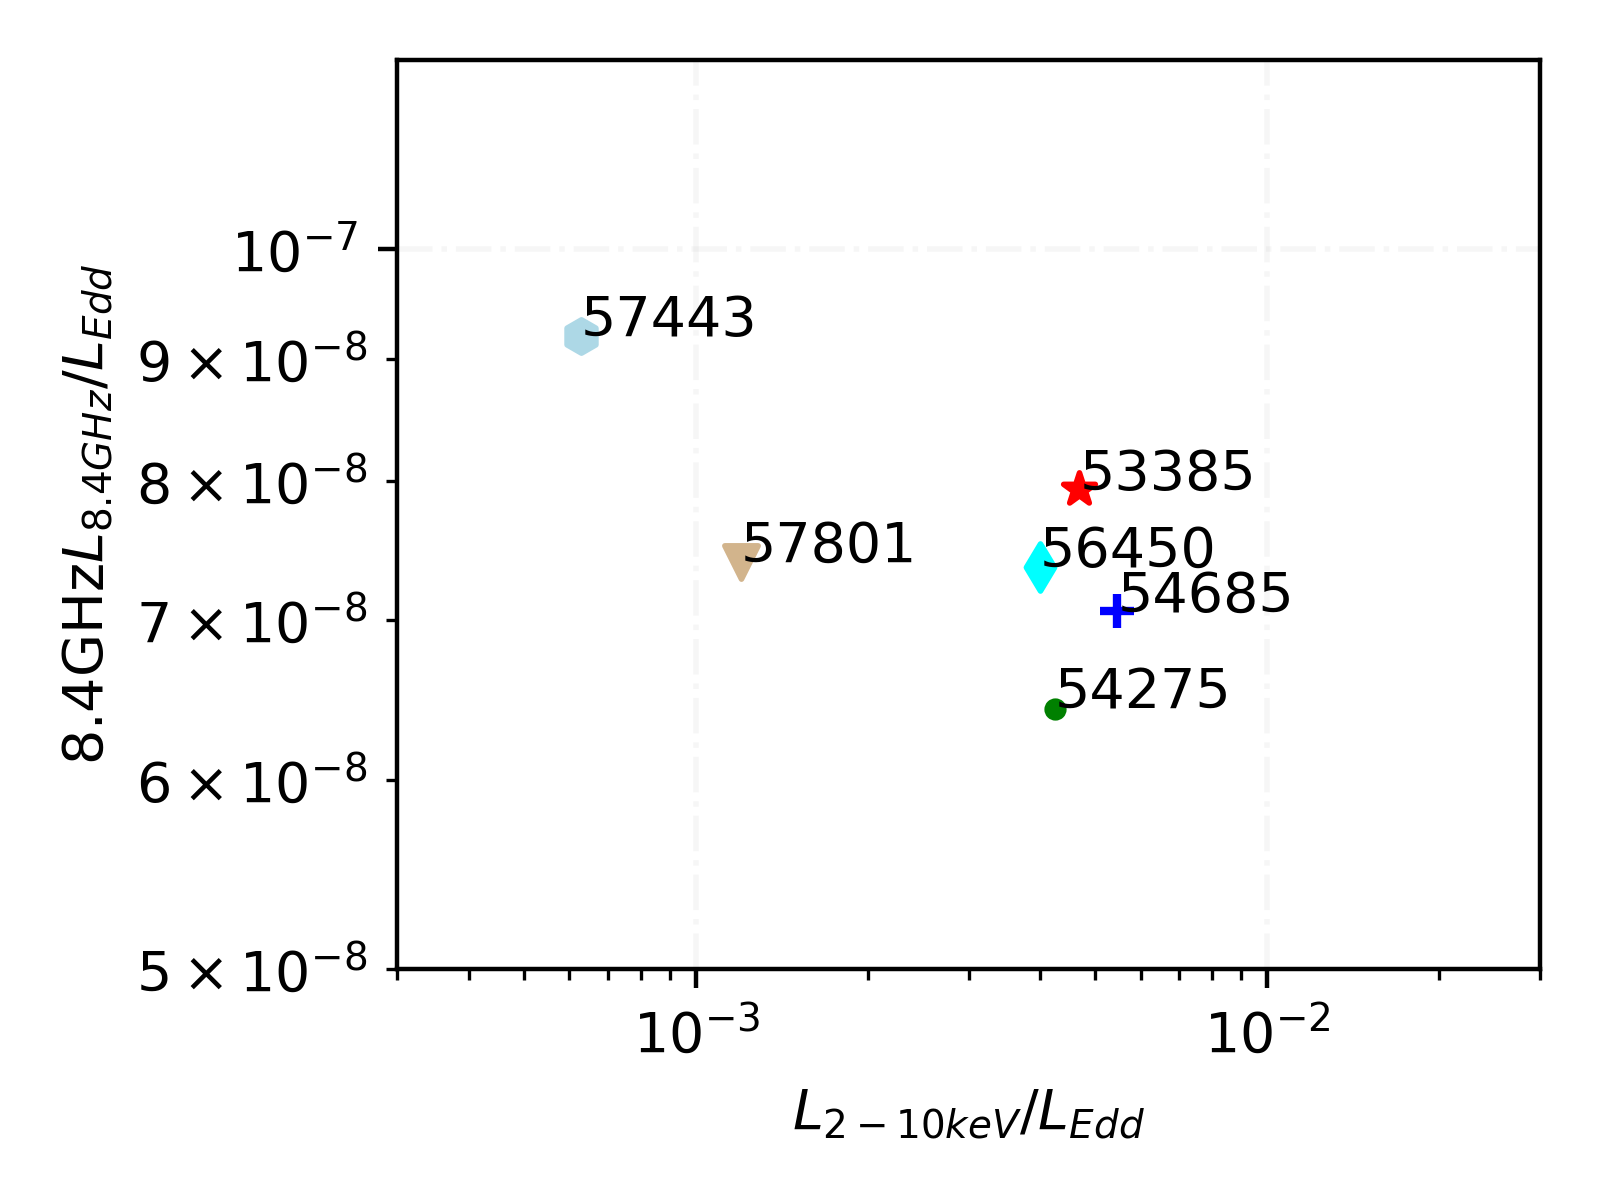
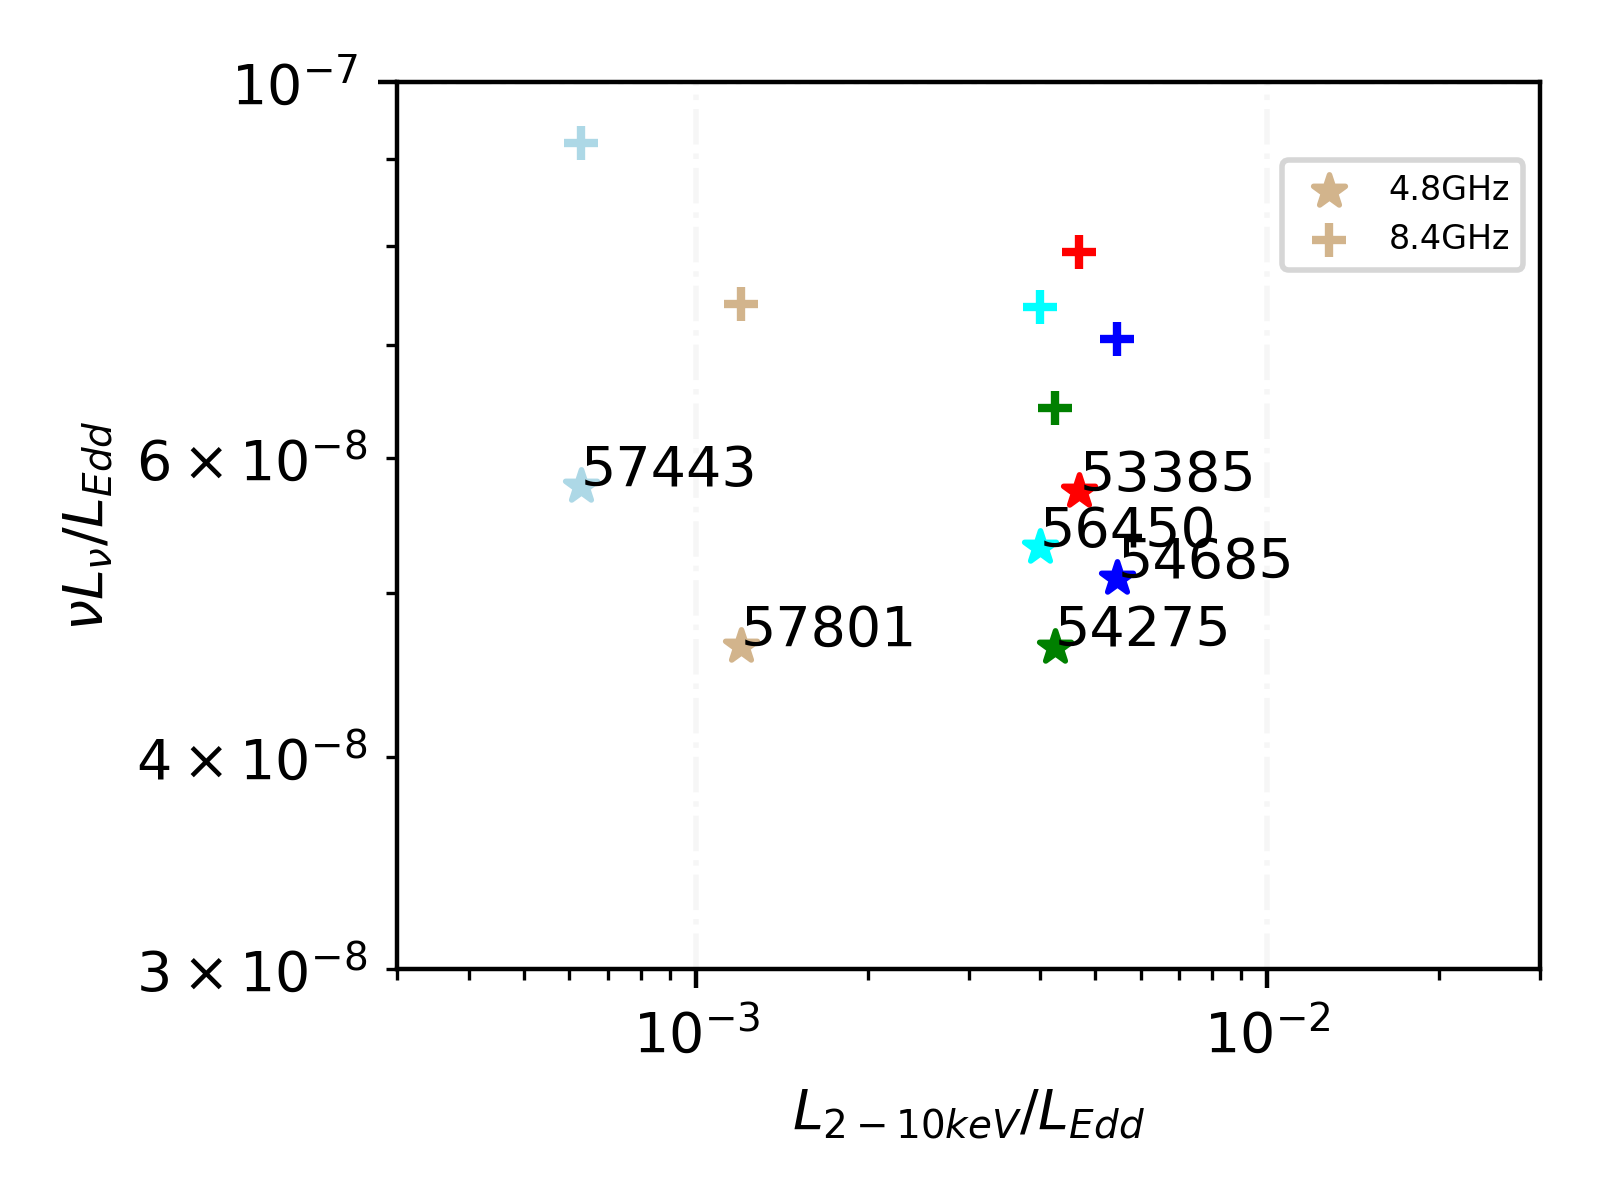
Updates from Overleaf

diff --git a/main.tex b/main.tex
@@ -336,13 +336,13 @@ This paper is structured as follows: In Sect. \ref{sec:data}, we describe the ob
 
 \section{Data Analysis}\label{sec:data}
 \subsection{X-ray}
-We analysed archival \swift, \xmm, \chandra~and \nustar~data in 2005 $\sim$ 2018. All 2-10~keV fluxes are corrected for Galactic absorption with cflux model in Xspec v12.10.1f \citep{1996ASPC..101...17A}, where its absorption by Galactic neutral hydrogen, nH, was fixed at 0.0243 $\times 10^{22} cm^{-2}$\citep[see ][]{2016A&A...593L...9H}. The 2-10~keV flux variability reach a factor around 8-10 between 2009 and 2016, which could be caused by the dimming of the central engine. The severe variability in short timescale provides a good target for intrinsic activity of individual Super-massive Black Holes(SMBH). All best fit parameters include photon index($\Gamma$, hereafter for short), flux in 2-10~keV($F_{2-10~keV}$) after the Galactic absorption correction, etc. are listed in Table.~\ref{tab:table1}.
+We analysed archival \swift, \xmm, \chandra~and \nustar~data in 2005 $\sim$ 2018. All 2-10~keV fluxes are corrected for Galactic absorption with cflux model in Xspec v12.10.1f \citep{1996ASPC..101...17A}, where its absorption by Galactic neutral hydrogen, nH, was fixed at 0.0243 $\times 10^{22} cm^{-2}$\citep[see ][]{2016A&A...593L...9H}. All best fit parameters include photon index($\Gamma$, hereafter for short), flux in 2-10~keV($F_{2-10~keV}$) after the Galactic absorption correction, etc, are listed in Table.~\ref{tab:table1}.
 
 
 %\textit{XMM-Newton}
 
 \subsubsection{\swift/XRT}
-The X-Ray Telescope (XRT) on board the Swift satellite has the most frequent long term X-ray observation of Mrk~1018, a rapidly variable Changing-look AGN. We reanalysis the archive data with analysis xrtpipeline\footnote{\url{http://swift.asdc.asi.it}} and fit the spectrum of Mrk~1018 in 0.5-10~keV range based on a simple absorbed power-law model for all data.  The source region is a 47-arcsec-radius circle at the center of AGN as suggested in \citet{2009MNRAS.397.1177E}. When counts of photons is less than 100, we use C-stat method to fit the model without grouping counts bins. Otherwise, the spectrum was grouped by minimum of 20 counts per bin. 
+The X-Ray Telescope (XRT) on board the Swift satellite has the most frequent long term X-ray observation of Mrk~1018. We reanalysis the archive data with analysis xrtpipeline\footnote{\url{http://swift.asdc.asi.it}} and fit the spectrum of Mrk~1018 in 0.5-10~keV range based on a simple absorbed power-law model for all data.  The source region is a 47-arcsec-radius circle at the center of AGN as suggested in \citet{2009MNRAS.397.1177E}. When counts of photons is less than 100, we use C-stat method to fit the model without grouping counts bins. Otherwise, the spectrum was grouped by minimum of 20 counts per bin. 
 
 
 \subsubsection{\chandra}
@@ -357,7 +357,9 @@ Only 2 observation data in 2005 and 2008 with XMM-Newton have been released, and
 
 \subsection{Optical/ultraviolet}
 \subsubsection{\swift/UVOT}
-There are six filters in optical/ultraviolet band of \swift/UVOT: V,B,U,UVW1,UVM2 and UVW2. We use the tool \textit{uvotsource} to do the aperture photometry for all the observations of each filter. The source aperture radius is 5$\arcsec$ and the background is chosen in a blank region with much larger aperture radius. The results of the V and B filters are discarded, because the emission from the host galaxy is dominated in these two bands even in the bright phase \citep{2018MNRAS.480.3898N}. We discard the results of all filters after 2016, since the emission from the nucleus is comparable or less than the host galaxy \citep{2018MNRAS.480.3898N}. We derived the extinction with $A_V=$ 0.075 using extinction model from \citet{2007ApJ...663..320F}, where $A_V$ is the extinction in the V band extinction in magnitudes.
+There are six filters in optical/ultraviolet band of \swift/UVOT: V,B,U,UVW1,UVM2 and UVW2. We use the tool \textit{uvotsource} to do the aperture photometry for all the observations of each filter. The source aperture radius is 5$\arcsec$ and the background is chosen in a blank region with much larger aperture radius. The results of the V and B filters are discarded, because the emission from the host galaxy is dominated in these two bands even in the bright phase \citep{2018MNRAS.480.3898N}. We discard the results of all filters after 2016, since the emission from the nucleus is comparable or less than the host galaxy \citep{2018MNRAS.480.3898N}, so host galaxy contribution to optical is estimated at around half of total flux in 2016's observation.  Milky Way extinction correction using \texorpdfstring{E(B$-V$) = 0.024}. mag($A_V=$ 0.075 and $R_{V}=3.1$)\footnote{Retrieved via the NASA/IPAC Extragalactic Database (NED): \url{http://ned.ipac.caltech.edu/}} with extinction model from \citet{2007ApJ...663..320F} is adopted.  
+
+
 
 \subsection{Radio/VLA}
 %\label{subsec:vla}
@@ -369,9 +371,7 @@ We search all the historical VLA observations on Mrk~1018 within the field of vi
 
 \subsection{Evolution of ~\texorpdfstring{\Gammaxray} . and flux in 2-10~keV band\label{subsec:g-f}}
 
-Based on all X-ray spectrum fit, we show the photon index evolution with flux and Eddington rate, as shown in Fig.~\ref{fig:xrayappendgood-fandg-tmap}. For XRT observations, we only present data with re-chi<1.5 here. For comparison, we also list all the fitting result from reference papers in Table.~\ref{tab:table1}. For better data visualization, interactive image plotted with Bokeh\footnote{\url{https://bokeh.pydata.org/en/latest/index.html}} can be found online\footnote{\url{https://brettlv.github.io/pythoncode/Mrk1018/Mrk1018-xray-bokeh.html}}.
-
-The $\Gamma$ vs Eddington rate diagram shows distinct evolution relationship when $L_{2-10~ keV}/L_{Edd}$ reach the so-called critical Eddington rate around 0.005$\sim$ 0.01. The evolution of spectrum and the dimming of X-ray flux might be caused by the central engine activities as the intrinsic absorption(nH) is consistent with zero. However, we found that it transited in two tracks in short timescale(100-800 days) relative to the typical timescale of Super-massive Black Holes(SMBHs). We emphasise that Mrk1018 increased its flux in X-ray by a factor $\sim3$ from MJD 56352 to 56450, while $\Gamma$ dropped from $\sim1.8$ to $\sim1.4$, which appeared in two tracks.  
+Based on all X-ray spectrum fit, we show the photon index evolution with flux and Eddington rate, as shown in Fig.~\ref{fig:xrayappendgood-fandg-tmap}. For XRT observations, we only present data with re-chi<1.5 here. The $\Gamma$ vs Eddington rate diagram shows distinct evolution relationship when $L_{2-10~ keV}/L_{Edd}$ reach the so-called critical Eddington rate around 0.002$\sim$ 0.01. The evolution of spectrum and the dimming of X-ray flux might be caused by the central engine activities as the intrinsic absorption(nH) is consistent with zero. However, we found that it transited in two tracks in short timescale(100-800 days) relative to the typical timescale of Super-massive Black Holes(SMBHs). We emphasise that Mrk~1018 increased its flux in X-ray by a factor $\sim3$ from MJD 56352 to 56450, while $\Gamma$ dropped from $\sim1.8$ to $\sim1.4$, which appeared in two tracks. 
 
 
 \begin{figure}
@@ -397,7 +397,7 @@ The $\Gamma$ vs Eddington rate diagram shows distinct evolution relationship whe
 
 \subsection{Correlation between X-ray and ultraviolet}
 %\label{subsec:xray-uvot}
-During the fading phase, the X-ray flux showed strong linear correlation with UVOT data. The spearmanr coefficiency between simultaneous flux of xrt and four uvot band(uvm2,u,uvw1,and uvw2) are 0.89, 0.79, 0.88, 0.87, respectively. The slope  between log($F_{2-10keV}$) and four band log($\lambda F_{\lambda}$) are 1.4, 0.9, 1.4, 1.6, respectively. Both in X-ray and optical band, it showed the brightening from MJD 56352 to 56450, we found an outlier in Fig.~\ref{fig:correlation-uvot-xray} since the flux during this period in x-ray and ultraviolet increased by a factor of $\sim 3$ and $\sim 1.4$, respectively. Then the flux faded by a factor of $\sim 3$ and $\sim 1.5$, respectively, from MJD 56450 to 56817.
+During the fading phase, the X-ray flux showed strong linear correlation with UVOT data. The spearmanr coefficiency between simultaneous flux of xrt and four uvot band(uvm2,u,uvw1,and uvw2) are 0.89, 0.79, 0.88, 0.87, respectively. The slope  between log($F_{2-10keV}$) and four band log($\lambda F_{\lambda}$) are 1.4, 0.9, 1.4, 1.6, respectively. Both in X-ray and optical band, it showed the brightening from MJD 56352 to 56450, we found an outlier in Fig.~\ref{fig:correlation-uvot-xray} since the flux during this period in x-ray and four uvot  band(uvm2,u,uvw1,and uvw2) increased by a factor of $\sim 3.2$ and $\sim 1.2$, $\sim 1.2$, $\sim 1.4$, $\sim 1.5$, respectively. Then the flux faded by a factor of $\sim 4.2$ and $\sim 3.3$, $\sim 1.8$, $\sim 2.5$, $\sim 3$, respectively, from MJD 56450 to 56817.
 
 
 
@@ -448,7 +448,7 @@ We define \alphaox as :
 	% Allowable file formats are eps or ps if compiling using latex
 	% or pdf, png, jpg if compiling using pdflatex
 	\includegraphics[width=0.9\textwidth]{./pic/Mrk1018_subplots_plus_2individuals_alpha_ox_L_x_Luv_rate.png}
-    \caption{Mrk1018 and changing-look AGNs $\alpha_{ox}-\nu L_{2keV}/L_{Edd}$ and $\alpha_{ox}-L_{uv}/L_{Edd}$}
+    \caption{Mrk1018 and other changing-look AGNs or quasars $\alpha_{ox}-\nu L_{2keV}/L_{Edd}$ and $\alpha_{ox}-L_{uv}/L_{Edd}$. Faint and bright represent quasars in bright/faint state\citep[see][]{2019ApJ...883...76R}. Colorful markers represent the observation date(MJD) of Mrk~1018.}
     \label{fig:alpha_ox_luv}
 \end{figure}
 
@@ -488,11 +488,19 @@ We adopt data from intervals between X-ray and radio band as short as possible a
 	% Allowable file formats are eps or ps if compiling using latex
 	% or pdf, png, jpg if compiling using pdflatex
 	\includegraphics[width=0.9\textwidth]{./pic/Mrk1018_radio_xray_sel1_rate.png}
-    \caption{Quasi-simultaneous $8.4GHzL_{8.4GHz}/L_{Edd}-L_{2-10keV}/L_{Edd}$ relation of Mrk1018}
+    \caption{Quasi-simultaneous $\nu L_{\nu}/L_{Edd}-L_{2-10keV}/L_{Edd}$ relation of Mrk1018}
     \label{fig:radio-xray-relation}
 \end{figure}
 
-
+\begin{figure}
+\centering
+	% To include a figure from a file named example.*
+	% Allowable file formats are eps or ps if compiling using latex
+	% or pdf, png, jpg if compiling using pdflatex
+	\includegraphics[width=0.9\textwidth]{./pic/Mrk1018_ngc7213_radio_xray_rate.png}
+    \caption{Quasi-simultaneous $\nu L_{\nu}/L_{Edd}-L_{2-10keV}/L_{Edd}$ relation of Mrk1018}
+    \label{fig:radio-xray-rate_relation_plus_ngc7213}
+\end{figure}
 
 
 
@@ -500,12 +508,28 @@ We adopt data from intervals between X-ray and radio band as short as possible a
 \section{Discussion}\label{sec:discussion}
 
 \subsection{V-shape evolution}
+The 2-10~keV flux variability reach a factor around 8-10 between 2009 and 2016, which could be caused by the dimming of the central engine. During the fading period, the evolution of X-ray photn index with flux represent relation in two tracks(so called "V-shape").  
+The V-shape both in $\Gamma-L_{2-10~keV}/L_{Edd}$ and $\alpha_{ox}-L$ diagram show much similarity with other changing-look AGNs(\citep[see ][]{2019arXiv190904676R}) and quasars\citep[see ][]{2019ApJ...883...76R}.
+Unfortunately, there is a distinct flux gap between two tracks for Mrk~1018 which could be caused by lack of observation during the transition period or two intrinsic states in Mrk~1018. The type transition timescale can be limited in $\sim 2$ years, while we find the variability timescale in two X-ray tracks can be as short as several months. 
+ 
 
-\subsection{Xray and ultraviolet radiation origination}
-We found a strong correlation between the optical and X-ray fluxes during the fading phase, %which may indicate that the optical emission is produced by re-processing of the X-rays in outer parts of the optically-thick wind coming from the accretion disk. 
 
 
-\subsection{Temperature and accretion rate}
+\subsection{Xray and ultraviolet }
+We found a strong correlation between the optical and X-ray fluxes during the fading phase, which might correspond to near radiation region  between X-ray corona and accretion disk, as also suggested in \citet{2017A&A...607L...9K}. Within the long-term timescales(e.g., 6 years), the optical flux varied more than X-ray, while it was inverse during the transition period with as short as months timescale.
+
+%which may indicate that the optical emission is produced by re-processing of the X-rays in outer parts of the optically-thick wind coming from the accretion disk. 
+
+
+\subsection{Spectrum shape and accretion rate}
+From broad band SED from ultraviolet to X-ray, we can roughly estimate that the temperature of disk(if it exist) decline as the luminosity decrease.
+
+
+\subsection{Radio and X-ray}
+Mrk~1018 is located nearly at the transition between two accretion mode, with relatively flat slope in $\nu L_{\nu=4.8GHz}/L_{Edd}-L_{2-10keV}/L_{Edd}$ diagram.
+
+
+Considering all observational evidence, we can draw a full picture about how Mrk~1018 evolve when luminosity change. The severe variability in short timescale provides a good target for intrinsic activity of individual Super-massive Black Holes(SMBH).
 
 
 

diff --git a/table_xray.tex b/table_xray.tex
@@ -11,27 +11,27 @@
   (MJD)  &                         &                      &                    &  [erg cm$^{-2}$ s$^{-1}$] &      
  \\  \hline
 
-53385 & X & 0.98 & 1.73  $\pm$  0.07 & 9.70E-12  $\pm$  6.00E-13 &  \\ 
-53587 & S & 1.12 & 1.90  $\pm$  0.03 & 1.14E-11  $\pm$  3.73E-13 &  \\ 
-54271 & S & 1.00 & 1.90  $\pm$  0.05 & 9.34E-12  $\pm$  4.51E-13 &  \\ 
-54274 & S & 1.27 & 1.95  $\pm$  0.05 & 7.88E-12  $\pm$  3.78E-13 &  \\ 
-54276 & S & 1.12 & 1.95  $\pm$  0.04 & 8.78E-12  $\pm$  3.71E-13 &  \\ 
-54628 & S & 0.94 & 1.77  $\pm$  0.04 & 9.85E-12  $\pm$  3.95E-13 &  \\ 
-54685 & X & 1.16 & 1.79  $\pm$  0.02 & 1.13E-11  $\pm$  2.00E-13 &  \\ 
-55527$^{(a)}$ & C & 1.10 & 1.70  $\pm$  0.03 & 9.26E-12  $\pm$  1.90E-13 &            \\ 
-56353 & S & 1.41 & 1.83  $\pm$  0.22 & 2.59E-12  $\pm$  5.56E-13 &  \\ 
-56450 & S & 0.87 & 1.37  $\pm$  0.13 & 8.26E-12  $\pm$  8.92E-13 &  \\ 
-56818 & S & 0.70 & 1.35  $\pm$  0.19 & 1.98E-12  $\pm$  3.52E-13 &  \\ 
-57428 & N & 1.23 & 1.85  $\pm$  0.08 & 1.80E-12  $\pm$  1.00E-13 &  \\ 
-57429 & S & 1.31 & 1.75  $\pm$  0.16 & 1.51E-12  $\pm$  9.56E-14 &  \\ 
-57443 & C & 0.82 & 1.70  $\pm$  0.03 & 1.30E-12  $\pm$  3.00E-14 &  \\ 
-57801 & C & 1.26 & 1.61  $\pm$  0.02 & 2.48E-12  $\pm$  4.00E-14 &  \\ 
-58123 & N & 1.34 & 1.80  $\pm$  0.06 & 2.10E-12  $\pm$  1.00E-13 &  \\ 
-58126 & C & 1.05 & 1.60  $\pm$  0.03 & 1.84E-12  $\pm$  5.00E-14 &  \\ 
-58180 & C & 1.02 & 1.61  $\pm$  0.04 & 1.59E-12  $\pm$  5.00E-14 &  \\ 
-58182 & N & 1.03 & 1.80  $\pm$  0.06 & 1.50E-12  $\pm$  7.00E-14 &  \\ 
-58281 & C & 1.02 & 1.62  $\pm$  0.03 & 1.77E-12  $\pm$  5.00E-14 &  \\ 
-58316 & N & 0.85 & 1.74  $\pm$  0.05 & 2.00E-12  $\pm$  9.00E-14 &  \\  \hline
+53385 & X & 0.98 & 1.73  $\pm$  0.07 & 9.70e-12  $\pm$  6.00e-13 &  \\ 
+53587 & S & 1.12 & 1.90  $\pm$  0.03 & 1.14e-11  $\pm$  3.73e-13 &  \\ 
+54271 & S & 1.00 & 1.90  $\pm$  0.05 & 9.34e-12  $\pm$  4.51e-13 &  \\ 
+54274 & S & 1.27 & 1.95  $\pm$  0.05 & 7.88e-12  $\pm$  3.78e-13 &  \\ 
+54276 & S & 1.12 & 1.95  $\pm$  0.04 & 8.78e-12  $\pm$  3.71e-13 &  \\ 
+54628 & S & 0.94 & 1.77  $\pm$  0.04 & 9.85e-12  $\pm$  3.95e-13 &  \\ 
+54685 & X & 1.16 & 1.79  $\pm$  0.02 & 1.13e-11  $\pm$  2.00e-13 &  \\ 
+55527$^{(a)}$ & C & 1.10 & 1.70  $\pm$  0.03 & 9.26e-12  $\pm$  1.90e-13 &            \\ 
+56353 & S & 1.41 & 1.83  $\pm$  0.22 & 2.59e-12  $\pm$  5.56e-13 &  \\ 
+56450 & S & 0.87 & 1.37  $\pm$  0.13 & 8.26e-12  $\pm$  8.92e-13 &  \\ 
+56818 & S & 0.70 & 1.35  $\pm$  0.19 & 1.98e-12  $\pm$  3.52e-13 &  \\ 
+57428 & N & 1.23 & 1.85  $\pm$  0.08 & 1.80e-12  $\pm$  1.00e-13 &  \\ 
+57429 & S & 1.31 & 1.75  $\pm$  0.16 & 1.51e-12  $\pm$  9.56e-14 &  \\ 
+57443 & C & 0.82 & 1.70  $\pm$  0.03 & 1.30e-12  $\pm$  3.00e-14 &  \\ 
+57801 & C & 1.26 & 1.61  $\pm$  0.02 & 2.48e-12  $\pm$  4.00e-14 &  \\ 
+58123 & N & 1.34 & 1.80  $\pm$  0.06 & 2.10e-12  $\pm$  1.00e-13 &  \\ 
+58126 & C & 1.05 & 1.60  $\pm$  0.03 & 1.84e-12  $\pm$  5.00e-14 &  \\ 
+58180 & C & 1.02 & 1.61  $\pm$  0.04 & 1.59e-12  $\pm$  5.00e-14 &  \\ 
+58182 & N & 1.03 & 1.80  $\pm$  0.06 & 1.50e-12  $\pm$  7.00e-14 &  \\ 
+58281 & C & 1.02 & 1.62  $\pm$  0.03 & 1.77e-12  $\pm$  5.00e-14 &  \\ 
+58316 & N & 0.85 & 1.74  $\pm$  0.05 & 2.00e-12  $\pm$  9.00e-14 &  \\  \hline
 \end{tabular}\\
 Notes: Here the superscripts $^{(a)}$ represents fit result that are taken from \citet{2017A&A...607L...9K}. Instrument indicate by C-\chandra, S-\swift, X-\xmm, N-\nustar. 
 \end{table}

diff --git a/table_radio_xray.tex b/table_radio_xray.tex
@@ -1,20 +1,21 @@
 \begin{table}
 \centering
-\caption{{\bf Radio and X-ray luminosity diagram} Columns include the date of the radio observation, the radio spectrum index $\alpha_{radio}$ , the date of X-ray observation, the interval between two bands, the rescaled to 8.4GHz flux and luminosity, the X-ray flux and luminosity in 2-10keV band, where $L_{Radio}=\nu {L_{\nu =8.4GHz}}$}
+\caption{{\bf Radio and X-ray luminosity diagram.} Columns include the date of the radio observation, the radio spectrum index $\alpha_{radio}$ , the date of X-ray observation, the interval between two bands, the flux and luminosity rescaled to 4.8 and 8.4~GHz, the X-ray flux and luminosity in 2-10~keV band.}
 \label{tab:table4}
 \begin{tabular}{llllllllll}
 \hline
 \hline
 
-$Time_{Radio}$ &  $\alpha_{radio}$ & $Time_{X-ray}$ & $\delta$ T & $F_{8.4GHz}$ & $F_{2-10keV}$ & $L_{Radio}$ & $L_{X-ray}$ \\ 
-(MJD)  &  & (MJD)  &(MJD)  &(mJy) &($erg~s^{-1}~cm^{-2}$) & ($erg~s^{-1} $)& ($erg~s^{-1} $) \\
+$Time_{Radio}$ &  $\alpha_{radio}$ & $Time_{X-ray}$ & $\delta$ T & $F_{2-10keV}$ & $F_{4.8GHz}$ & $F_{8.4GHz}$ &  $\nu L_{\nu=4.8GHz}$ &  $\nu L_{\nu=8.4GHz}$ & $L_{2-10~keV}$ \\ 
+(MJD)  &  & (MJD)  &(day)  &[$erg~s^{-1}~cm^{-2}$] & [mJy)& (mJy)]& [$erg~s^{-1} $] & [$erg~s^{-1} $]& [$erg~s^{-1} $]\\
 \hline
 
-52246.5  & 0.42 & 53385 & 1138 & 1.96 & 9.70E-12 & 6.92E38 & 4.09E43 \\ 
-54318 &   0.42 & 54276 & 42 & 1.58 & 8.78E-12 & 5.60E39 & 3.70E44 \\ 
-54872.5   & 0.42 & 54685 & 188 & 1.74 & 1.13E-11 & 6.15E40 & 4.76E45 \\ 
-56550 &  0.42 & 56450 & 100 & 1.81 & 8.26E-12 & 6.42E41 & 3.48E46 \\ 
-57481 &   0.17 & 57443 & 38 & 2.27 & 1.30E-12 & 8.02E42 & 5.48E46 \\ 
-57768 &  0.17 & 57801 & 33 & 1.82 & 2.48E-12 & 6.45E43 & 1.04E48 \\ \hline
+52246.5 & 0.42 & 53385 & 1138 & 9.70e-12 & 2.47 & 1.96 & 5.00e38 & 6.92e38 & 4.09e43 \\ 
+54318 & 0.42 & 54276 & 42 & 8.78e-12 & 2.00 & 1.58 & 4.05e38 & 5.60e38 & 3.70e43 \\ 
+54872.5 & 0.42 & 54685 & 188 & 1.13e-11 & 2.20 & 1.74 & 4.45e39 & 6.15e39 & 4.76e44 \\ 
+56550 & 0.42 & 56450 & 100 & 8.26e-12 & 2.29 & 1.81 & 4.64e40 & 6.42e40 & 3.48e45 \\ 
+57481 & 0.17 & 57443 & 38 & 1.30e-12 & 2.49 & 2.27 & 5.04e41 & 8.02e41 & 5.48e45 \\ 
+57768 & 0.17 & 57801 & 33 & 2.48e-12 & 2.00 & 1.82 & 4.05e42 & 6.45e42 & 1.04e47 \\ \hline
+
 \end{tabular}
 \end{table}

diff --git a/table_alpha_ox.tex b/table_alpha_ox.tex
@@ -1,0 +1,27 @@
+
+
+
+
+
+
+
+\begin{table}
+\centering
+\caption{{\bf $\alpha_{ox}$ of Mrk~1018 with simultaneous XRT and UVOT observation.} Columns include the date of the observation, $\alpha_{ox}$, flux in 2-10~keV, $\nu F_{uw1}$, and Eddington rate.}
+\label{tab:tablealpha_ox}
+\begin{tabular}{lcccccc}
+\hline
+\hline
+ 
+ Date &   $\alpha_{ox}$  & $F_{2-10keV}$  &$\nu F_{uw1}$  & $L_{2-10keV}/L_{Edd}$ &   $\nu L_{uw1}/L_{Edd}$  \\ 
+ (MJD)&                   &   [erg cm$^{-2}$ s$^{-1}$]   &[erg cm$^{-2}$ s$^{-1}$]    &                    &            
+ \\ \hline
+53587 & 1.29 & 1.14e-11 & 3.92e-11 & 5.53e-03 & 1.90e-02 \\ 
+54271 & 1.30 & 9.34e-12 & 3.31e-11 & 4.51e-03 & 1.60e-02 \\ 
+54275 & 1.31 & 8.78e-12 & 3.45e-11 & 4.24e-03 & 1.67e-02 \\ 
+54628 & 1.29 & 9.85e-12 & 2.89e-11 & 4.76e-03 & 1.40e-02 \\ 
+56352 & 1.20 & 2.59e-12 & 4.58e-12 & 1.25e-03 & 2.22e-03 \\ 
+56450 & 1.14 & 8.26e-12 & 6.35e-12 & 3.99e-03 & 3.07e-03 \\ 
+56817 & 1.23 & 1.98e-12 & 2.58e-12 & 9.57e-04 & 1.25e-03 \\ \hline
+\end{tabular}   
+\end{table}

diff --git a/table_radio.tex b/table_radio.tex
@@ -1,6 +1,6 @@
 \begin{table}
 \centering
-\caption{{\bf VLA observation of Mrk~1018} Columns include the date of the observation, the band, the frequency, the integrated flux, the rms and the reference.}
+\caption{{\bf VLA observation of Mrk~1018.} Columns include the date of the observation, the band, the frequency, the integrated flux, the rms and the reference.}
 \label{tab:tableradio}
 \begin{tabular}{lcccccc}
 \hline
